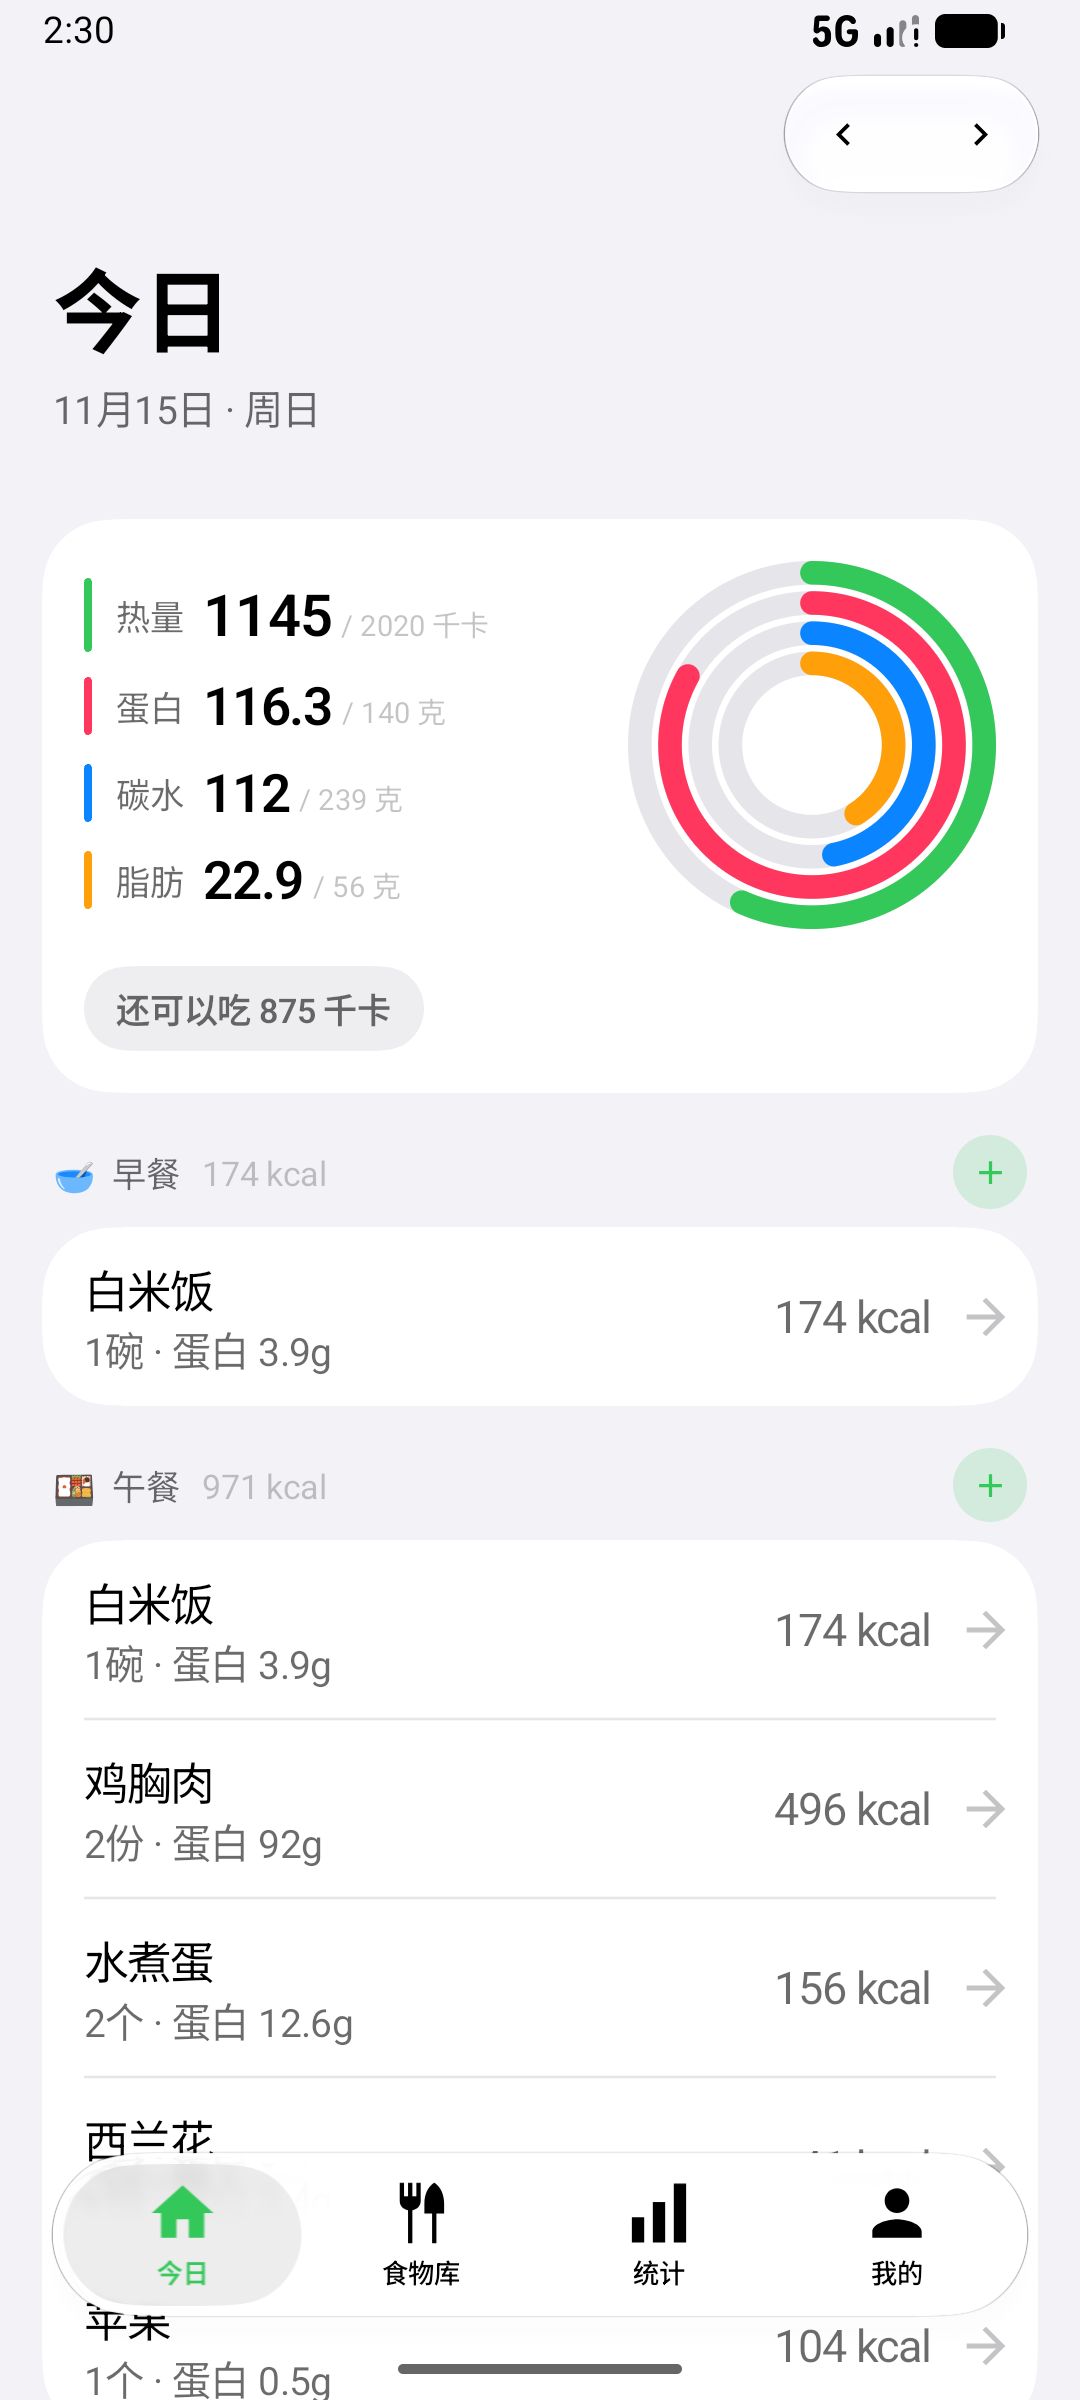
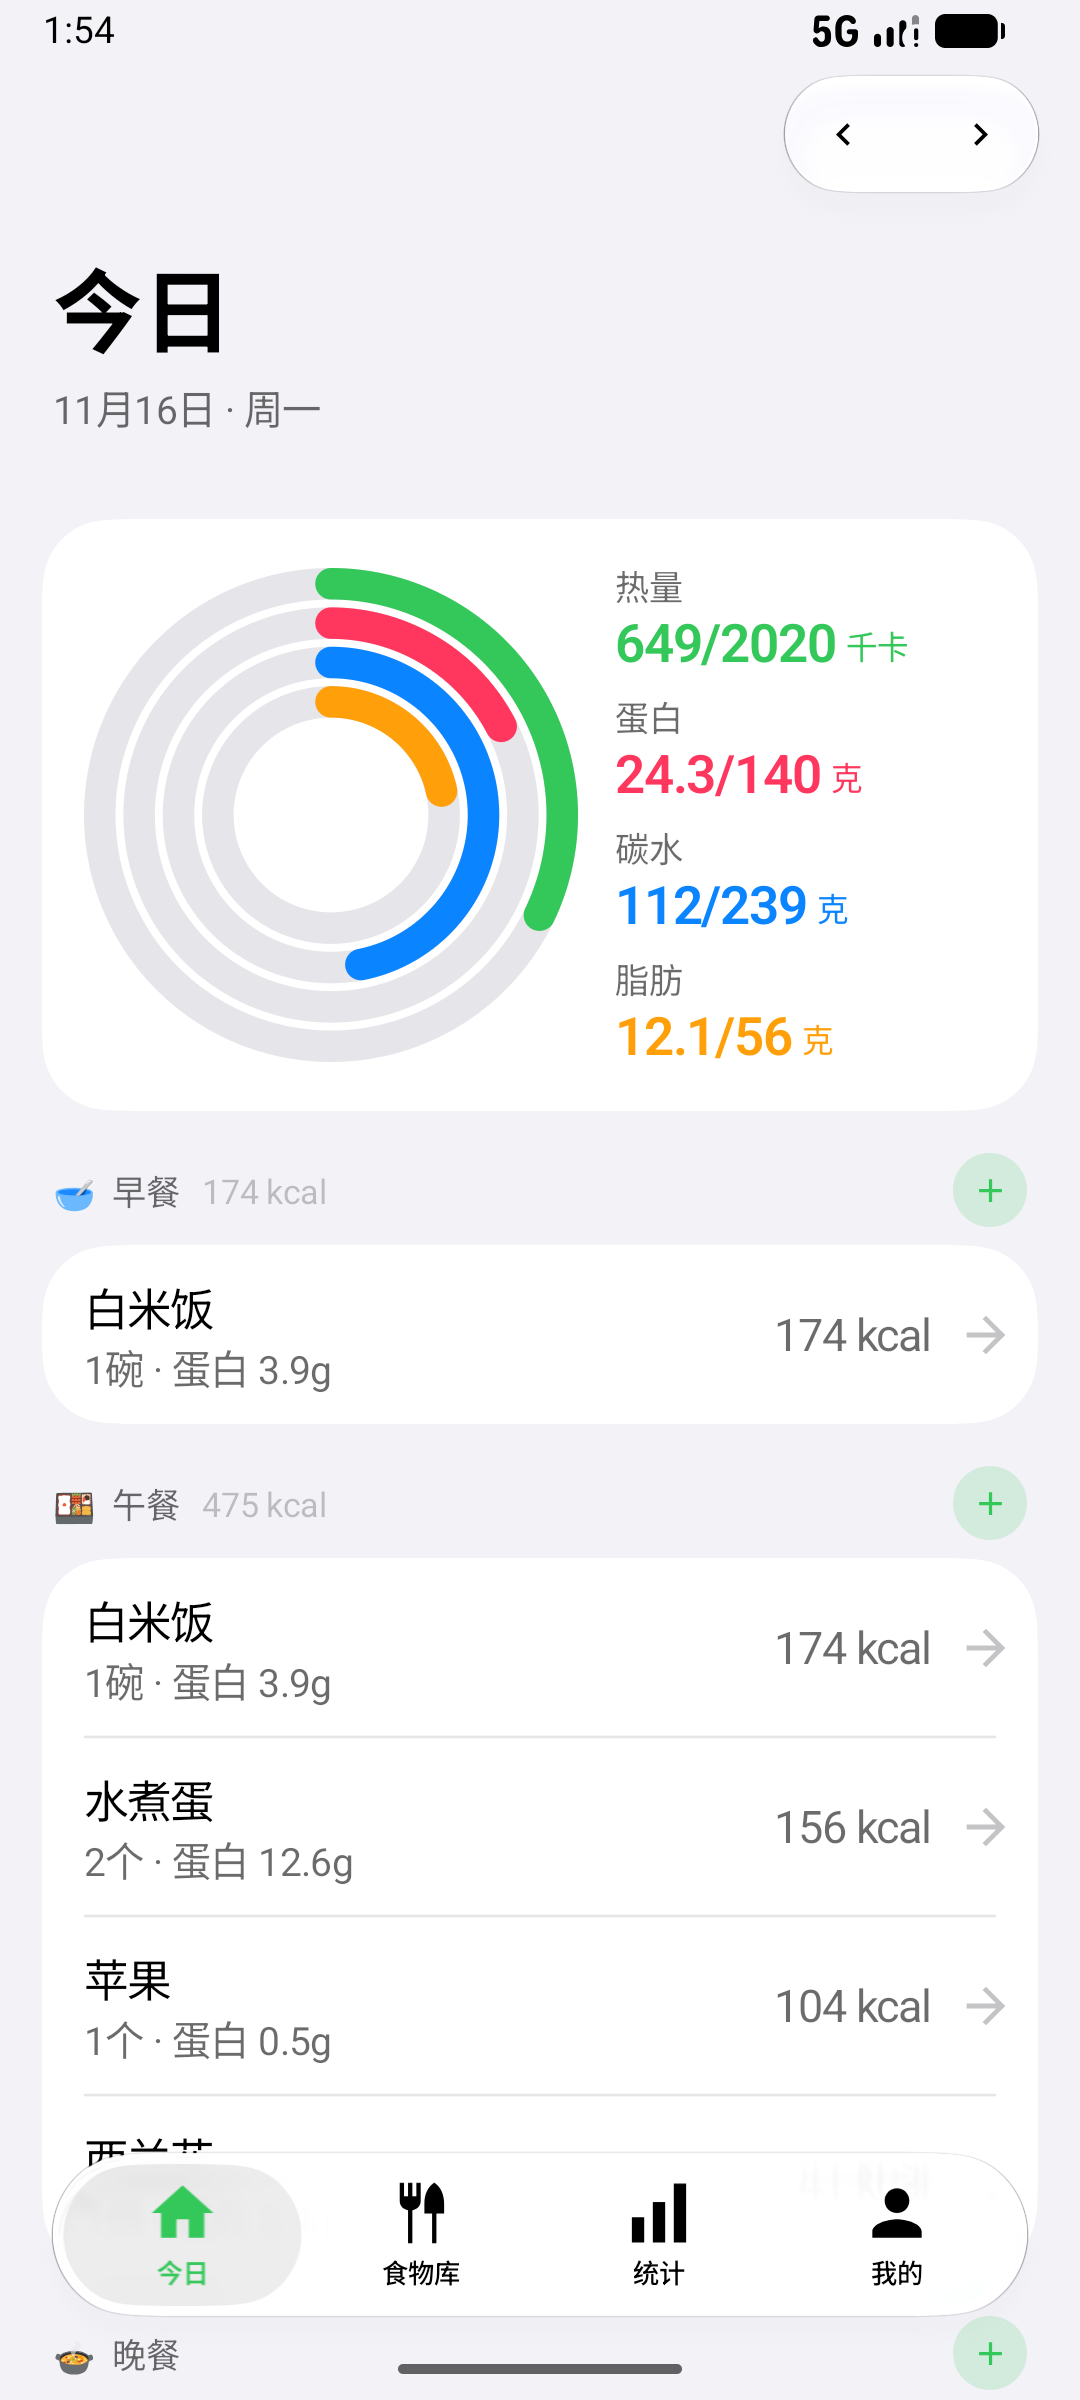
营养圆环改成「环在左、数值在右」的版式
参照健身 App 的活动圆环重排两块卡（今日概览 + 统计页当日详情）：
- 四圈环移到左边，放大到 188dp、描边 12dp，环只表达比例
- 右侧四组「小标签 + 大数字/目标」，数字直接染成对应的环色
  （热量绿、蛋白粉、碳水蓝、脂肪橙），不再是左侧竖色条
- 去掉「还可以吃 X 千卡」胶囊和统计页的「各餐吃了多少」一行：
  环和分数已经够看，少一行字卡片更紧凑
- 两处仍共用 NutritionRingsBody，改一处两边一起变
- README 与今日/统计三张截图同步

diff --git a/app/src/main/java/com/fitlog/app/ui/components/IosPrimitives.kt b/app/src/main/java/com/fitlog/app/ui/components/IosPrimitives.kt
@@ -486,16 +486,15 @@ private fun StepperButton(
 
 /* ------------------------- 今日概览：同心圆环 ------------------------- */
 
-/* ------------------------- 营养概览：同心圆环 ------------------------- */
-
 /**
- * 今日营养概览：左边四行数值（热量 / 蛋白 / 碳水 / 脂肪），右边四圈同心环。
+ * 今日营养概览：左边四圈同心环，右边四组「标签 + 数值」。
  *
- * 四圈从外到内依次是热量、蛋白、碳水、脂肪，顺序和左边四行完全一致、颜色一一对应。
- * 早一版只画了三个宏量环、热量只有数字没有环，视觉上总像缺一块；
- * 把热量放进最外圈之后，四行数值和四个环才对得上。
+ * 版式对齐健身 App 的活动圆环：环只表达比例，数值全部在环外、并且染成对应的环色，
+ * 一眼就能把「哪一圈 = 哪一项」对上。最外圈是热量，往内依次是蛋白、碳水、脂肪，
+ * 顺序和右边四行完全一致。
  *
- * 数值全部在环外，环只表达比例，文字不再压在圆环上。
+ * 这里不再放「还可以吃多少」的余额胶囊：环和分数已经说明问题，
+ * 多一个胶囊只会把卡片撑长。
  */
 @Composable
 fun NutritionRingsCard(
@@ -515,7 +514,7 @@ fun NutritionRingsCard(
 }
 
 /**
- * 「四行数值 + 四圈环 + 余量胶囊」这一段，今日页和统计页的当日详情共用，
+ * 「四圈环 + 四组数值」这一段，今日页和统计页的当日详情共用，
  * 保证两处是同一套东西，改一处两边都跟着变。
  */
 @Composable
@@ -523,113 +522,97 @@ fun NutritionRingsBody(
     totals: Totals,
     targets: Targets,
     modifier: Modifier = Modifier,
-    ringSize: Dp = 140.dp,
+    ringSize: Dp = 188.dp,
 ) {
-    val colors = GlasmioTheme.colors
-    val dark = colors.isDark
-    val remaining = targets.kcal - totals.kcal
-    val over = remaining < 0
-    val danger = FitPalette.danger(dark)
-
-    Column(modifier) {
-        Row(verticalAlignment = Alignment.CenterVertically) {
-            Column(
-                Modifier.weight(1f),
-                verticalArrangement = Arrangement.spacedBy(8.dp),
-            ) {
-                StatLine(
-                    label = "热量",
-                    value = totals.kcal.toString(),
-                    target = targets.kcal,
-                    unit = "千卡",
-                    color = if (over) danger else colors.accent,
-                    over = over,
-                    emphasize = true,
-                )
-                StatLine(
-                    label = "蛋白",
-                    value = formatGrams(totals.protein),
-                    target = targets.protein,
-                    unit = "克",
-                    color = FitPalette.protein,
-                    over = targets.protein > 0 && totals.protein > targets.protein,
-                )
-                StatLine(
-                    label = "碳水",
-                    value = formatGrams(totals.carbs),
-                    target = targets.carbs,
-                    unit = "克",
-                    color = FitPalette.carbs,
-                    over = targets.carbs > 0 && totals.carbs > targets.carbs,
-                )
-                StatLine(
-                    label = "脂肪",
-                    value = formatGrams(totals.fat),
-                    target = targets.fat,
-                    unit = "克",
-                    color = FitPalette.fat,
-                    over = targets.fat > 0 && totals.fat > targets.fat,
-                )
-            }
-            Spacer(Modifier.width(14.dp))
-            MacroRings(
-                kcal = ratioOf(totals.kcal.toDouble(), targets.kcal),
-                protein = ratioOf(totals.protein, targets.protein),
-                carbs = ratioOf(totals.carbs, targets.carbs),
-                fat = ratioOf(totals.fat, targets.fat),
-                overKcal = over,
-                overProtein = targets.protein > 0 && totals.protein > targets.protein,
-                overCarbs = targets.carbs > 0 && totals.carbs > targets.carbs,
-                overFat = targets.fat > 0 && totals.fat > targets.fat,
-                modifier = Modifier.size(ringSize),
+    Row(modifier, verticalAlignment = Alignment.CenterVertically) {
+        MacroRings(
+            kcal = ratioOf(totals.kcal.toDouble(), targets.kcal),
+            protein = ratioOf(totals.protein, targets.protein),
+            carbs = ratioOf(totals.carbs, targets.carbs),
+            fat = ratioOf(totals.fat, targets.fat),
+            overKcal = targets.kcal > 0 && totals.kcal > targets.kcal,
+            overProtein = targets.protein > 0 && totals.protein > targets.protein,
+            overCarbs = targets.carbs > 0 && totals.carbs > targets.carbs,
+            overFat = targets.fat > 0 && totals.fat > targets.fat,
+            modifier = Modifier.size(ringSize),
+        )
+        Spacer(Modifier.width(14.dp))
+        Column(
+            Modifier.weight(1f),
+            verticalArrangement = Arrangement.spacedBy(6.dp),
+        ) {
+            MetricLine(
+                label = "热量",
+                value = totals.kcal.toString(),
+                target = targets.kcal,
+                unit = "千卡",
+                color = GlasmioTheme.colors.accent,
+                over = targets.kcal > 0 && totals.kcal > targets.kcal,
+            )
+            MetricLine(
+                label = "蛋白",
+                value = formatGrams(totals.protein),
+                target = targets.protein,
+                unit = "克",
+                color = FitPalette.protein,
+                over = targets.protein > 0 && totals.protein > targets.protein,
+            )
+            MetricLine(
+                label = "碳水",
+                value = formatGrams(totals.carbs),
+                target = targets.carbs,
+                unit = "克",
+                color = FitPalette.carbs,
+                over = targets.carbs > 0 && totals.carbs > targets.carbs,
+            )
+            MetricLine(
+                label = "脂肪",
+                value = formatGrams(totals.fat),
+                target = targets.fat,
+                unit = "克",
+                color = FitPalette.fat,
+                over = targets.fat > 0 && totals.fat > targets.fat,
             )
         }
-        Spacer(Modifier.height(14.dp))
-        RemainingChip(remaining = remaining, over = over)
     }
 }
 
 private fun ratioOf(value: Double, target: Int): Float =
     if (target <= 0) 0f else (value / target).toFloat().coerceIn(0f, 1f)
 
-/** 一行「▌标签 数值 / 目标 单位」；超标时整行转红，和热量余额保持同一套语义。 */
+/** 一组「小标签 + 大数字/目标」；数字用环色，超标时整组转红。 */
 @Composable
-private fun StatLine(
+private fun MetricLine(
     label: String,
     value: String,
     target: Int,
     unit: String,
     color: Color,
     over: Boolean,
-    emphasize: Boolean = false,
 ) {
     val colors = GlasmioTheme.colors
     val tint = if (over) FitPalette.danger(colors.isDark) else color
-    Row(verticalAlignment = Alignment.CenterVertically) {
-        Box(
-            Modifier
-                .width(3.dp)
-                .height(if (emphasize) 28.dp else 22.dp)
-                .clip(Capsule())
-                .background(tint),
+    Column {
+        Text(
+            label,
+            style = IosTypography.footnote,
+            color = colors.secondaryContent,
+            maxLines = 1,
         )
-        Spacer(Modifier.width(9.dp))
-        Text(label, style = IosTypography.footnote, color = colors.secondaryContent)
-        Spacer(Modifier.width(7.dp))
         Row(verticalAlignment = Alignment.Bottom) {
             Text(
-                value,
-                style = if (emphasize) IosTypography.title2 else IosTypography.title3,
+                "$value/$target",
+                style = IosTypography.title3,
                 fontWeight = FontWeight(600),
-                color = if (over) tint else colors.content,
+                color = tint,
                 maxLines = 1,
             )
             Text(
-                " / $target $unit",
-                style = IosTypography.caption2,
-                color = colors.tertiaryContent,
+                unit,
+                style = IosTypography.caption1,
+                color = tint,
                 maxLines = 1,
-                modifier = Modifier.padding(bottom = 3.dp),
+                modifier = Modifier.padding(start = 3.dp, bottom = 3.dp),
             )
         }
     }
@@ -663,10 +646,10 @@ private fun MacroRings(
     val track = colors.systemGray5
 
     Canvas(modifier) {
-        val stroke = 9.dp.toPx()
+        val stroke = 12.dp.toPx()
         // 圈与圈之间留一点缝：几个值都很小时（比如刚记录一项），
         // 贴在一起的圆头会糊成一块色斑，分开才能看出是四个环。
-        val gap = 2.5.dp.toPx()
+        val gap = 3.dp.toPx()
         val step = stroke + gap
         val outer = size.minDimension / 2f - stroke / 2f
 
@@ -699,33 +682,6 @@ private fun MacroRings(
         ring(proteinProgress, if (overProtein) danger else FitPalette.protein, outer - step)
         ring(carbsProgress, if (overCarbs) danger else FitPalette.carbs, outer - step * 2f)
         ring(fatProgress, if (overFat) danger else FitPalette.fat, outer - step * 3f)
-    }
-}
-
-/** 底部余量胶囊：还可以吃多少 / 已经超出多少。 */
-@Composable
-private fun RemainingChip(remaining: Int, over: Boolean) {
-    val colors = GlasmioTheme.colors
-    val danger = FitPalette.danger(colors.isDark)
-    Row(
-        Modifier
-            .clip(Capsule())
-            .background(
-                if (over) {
-                    danger.copy(alpha = if (colors.isDark) 0.22f else 0.12f)
-                } else {
-                    colors.segmentedControlBackground
-                },
-            )
-            .padding(horizontal = 12.dp, vertical = 7.dp),
-        verticalAlignment = Alignment.CenterVertically,
-    ) {
-        Text(
-            if (over) "已超出 ${-remaining} 千卡" else "还可以吃 $remaining 千卡",
-            style = IosTypography.footnote,
-            fontWeight = FontWeight(600),
-            color = if (over) danger else colors.secondaryContent,
-        )
     }
 }
 

diff --git a/app/src/main/java/com/fitlog/app/ui/components/HistoryCalendar.kt b/app/src/main/java/com/fitlog/app/ui/components/HistoryCalendar.kt
@@ -24,7 +24,6 @@ import androidx.compose.ui.text.style.TextAlign
 import androidx.compose.ui.unit.dp
 import androidx.compose.ui.unit.sp
 import com.fitlog.app.data.LogEntry
-import com.fitlog.app.data.Meal
 import com.fitlog.app.domain.Targets
 import com.fitlog.app.domain.totalsOf
 import com.fitlog.app.ui.theme.FitPalette
@@ -296,20 +295,8 @@ fun DaySummaryCard(
             EmptyHint(text = "这一天还没有记录", symbol = null)
         } else {
             Spacer(Modifier.height(14.dp))
+            // 和今日页共用同一段「四圈环 + 四组数值」，这里不再另写餐次分布
             NutritionRingsBody(totals = totals, targets = targets)
-
-            val mealLine = Meal.all.mapNotNull { meal ->
-                val kcal = entries.filter { it.meal == meal.id }.sumOf { it.kcal }.roundToInt()
-                if (kcal > 0) "${meal.label} $kcal" else null
-            }
-            if (mealLine.isNotEmpty()) {
-                Spacer(Modifier.height(12.dp))
-                Text(
-                    mealLine.joinToString(" · "),
-                    style = IosTypography.caption2,
-                    color = colors.tertiaryContent,
-                )
-            }
         }
     }
 }

diff --git a/README.md b/README.md
@@ -310,10 +310,12 @@ D:\AndroidProjects\FitLog\
   `FoodForm` 这一层做 `1 kcal = 4.184 kJ` 的换算，存档里没有 kJ 字段，
   网页版备份也不用跟着改。输入框显示 kJ 时取整（营养表本来就是整数），
   顺手把「填 690、回填成 689.9」这种一位小数抖动抹掉。
-- **今日页和统计页共用一套「四行数值 + 四圈环」。** 抽成了 `NutritionRingsBody`，
-  两张卡只是外套不同：今日页没有表头，统计页多一行「日期 + 今天 + 几条」和餐次分布。
-  热量放在最外圈而不是只留数字，四行数值与四个环的顺序、颜色完全对应，
-  扫一眼就能对上——这也意味着两处不能各画一套，改一处两边一起变。
+- **今日页和统计页共用一套「四圈环 + 四组数值」。** 抽成了 `NutritionRingsBody`，
+  两张卡只是外套不同：今日页没有表头，统计页多一行「日期 + 今天 + 几条」。
+  环在左、数值在右，数字直接染成对应的环色（热量绿、蛋白粉、碳水蓝、脂肪橙），
+  热量是最外圈——顺序和右边四行一致，扫一眼就能对上。
+  统计页不再重复「各餐吃了多少」，今日页也不再单独放「还可以吃多少」的胶囊：
+  环和分数已经说明问题，多一行字只会把卡片撑长。改一处两边一起变。
 
 **关于 `build.gradle.kts` 里那行 `buildscript classpath`：**
 AGP 9.0 起内置 Kotlin 支持，**不再需要** `org.jetbrains.kotlin.android` 插件；
@@ -326,10 +328,10 @@ AGP 9.0 起内置 Kotlin 支持，**不再需要** `org.jetbrains.kotlin.android
 
 | 模块 | 内容 |
 |---|---|
-| 今日 | 四圈同心环（热量/蛋白/碳水/脂肪，外到内）+ 左侧同序数值、可吃余量、超出目标变红、四餐分组、前后翻日期、复制昨天 |
+| 今日 | 四圈同心环（外到内：热量/蛋白/碳水/脂肪）+ 右侧同序数值、超出目标变红、四餐分组、前后翻日期、复制昨天 |
 | 记录 | 搜索（中文 / 拼音首字母）、分类筛选、份量步进、一顿汇总后一次入账、删错了可以撤销 |
 | 食物库 | 新建/编辑/删除、七个分类、按使用频次排序、按营养表（能量填 kJ、每 100 g）+ 实际克数自动折算、批量粘贴导入（支持 `485kj`）、空库引导建第一个 |
-| 统计 | 月历（每天标出当日热量，可一直往回翻）、点某天看当日详情（与今日页同一套四圈环 + 餐次分布）、体重折线、记体重 |
+| 统计 | 月历（每天标出当日热量，可一直往回翻）、点某天看当日详情（与今日页同一套四圈环，不重复列餐次）、体重折线、记体重 |
 | 我的 | 目标与代谢数据、导出/导入备份（导入前先校验是不是 FitLog 备份）、清空数据（带确认弹窗） |
 | 体验 | 深浅色跟随系统、大标题随滚动收起、底栏随滚动收缩、弹层磨砂、键盘弹起时表单自动上移 |
 
@@ -374,7 +376,7 @@ AGP 9.0 起内置 Kotlin 支持，**不再需要** `org.jetbrains.kotlin.android
 | 大标题收起 | 向上滚动后标题收进工具栏、顶部渐进模糊生效 |
 | 底栏收缩 | 滚动 64dp 后收成左下角小圆，点一下展开 |
 | 选择食物 → 记录 | 步进到「已选 1 份 · 约 104 kcal」，入账后今日页晚餐多出一条 |
-| 今日概览 | 热量 1145 / 2020 千卡，四圈环 57% / 83% / 47% / 41%（外到内）；加到 2981 千卡时四行数字和四个环全转红、余量胶囊变「已超出 961 千卡」 |
+| 今日概览 | 环在左、四组数值在右：热量 649/2020 千卡、蛋白 24.3/140 克、碳水 112/239 克、脂肪 12.1/56 克；超标时对应那一项的数值和环一起转红 |
 | 新建 / 编辑食物 | 分类胶囊、单位、克数、四项营养都能存；删除前有确认弹窗 |
 | 按营养表录入 | 白米饭 能量 485 kJ/100 g × 150 g → 1 份 174 kcal；鸡胸肉 690 kJ + 12/60/3 g × 150 g → 247 kcal；改口径（每 100 g ↔ 每份）时数字跟着换算 |
 | 能量单位 | 表单填 690 kJ，存成 247.4 kcal，再打开回填 690 kJ（取整显示，不抖成 689.9） |
